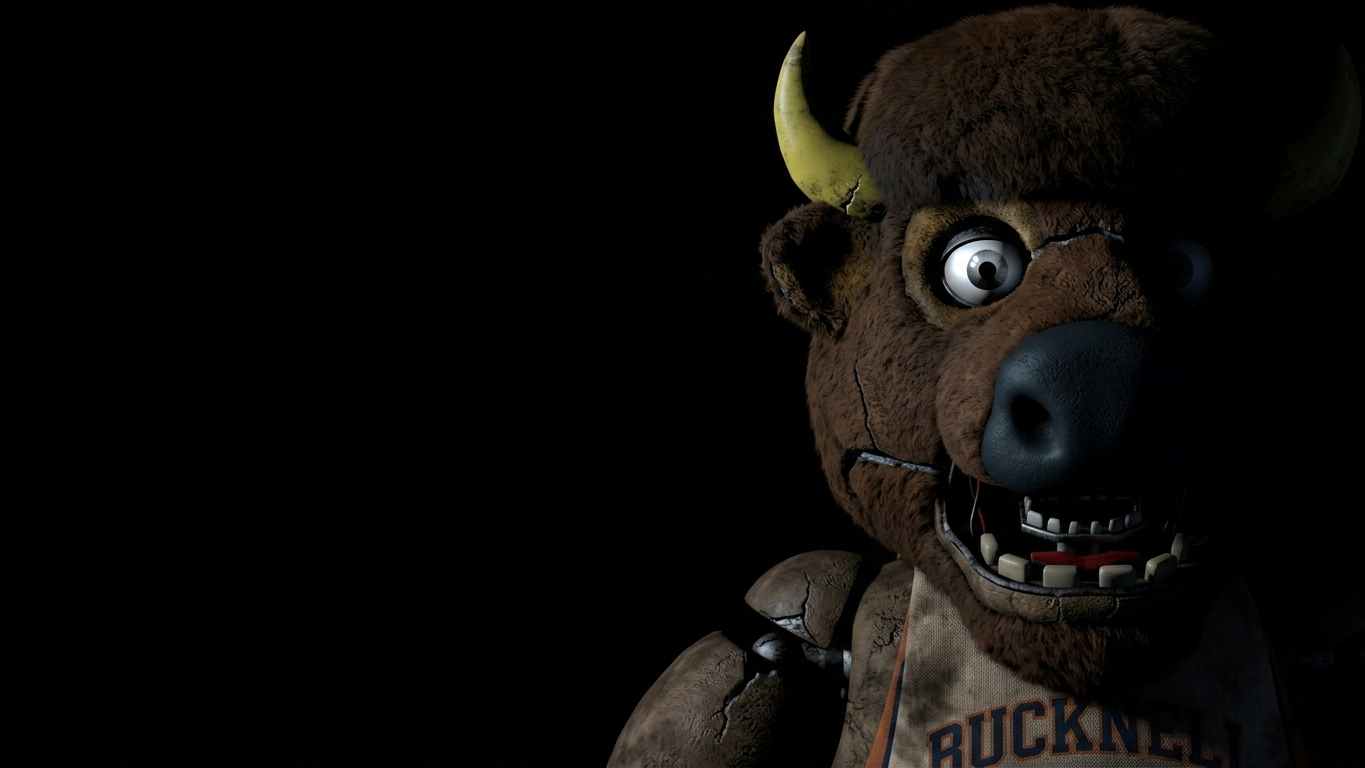
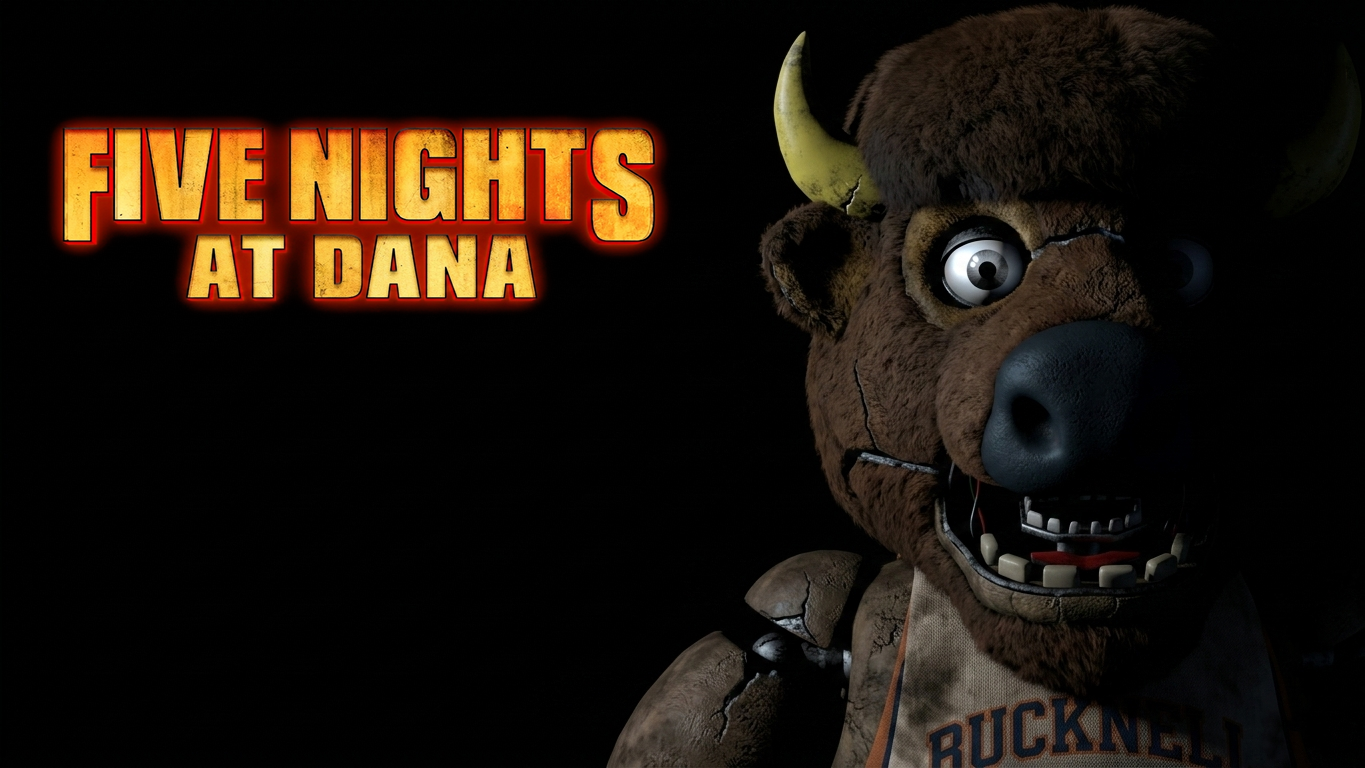
feat: Update main menu scene

Changed region(s): [[0.0308, 0.125, 0.4923, 0.4062]]

diff --git a/src/main/java/org/five_nights_at_dana/Controllers/MainMenuController.java b/src/main/java/org/five_nights_at_dana/Controllers/MainMenuController.java
@@ -25,7 +25,7 @@ public class MainMenuController {
     @FXML
     public void initialize() {
         backgroundImage.setImage(new Image(
-                getClass().getResourceAsStream("/assets/images/MainMenu.png")));
+                getClass().getResourceAsStream("/assets/images/MainMenuBackground.png")));
         // Add intro animations or sound here.
     }
 
